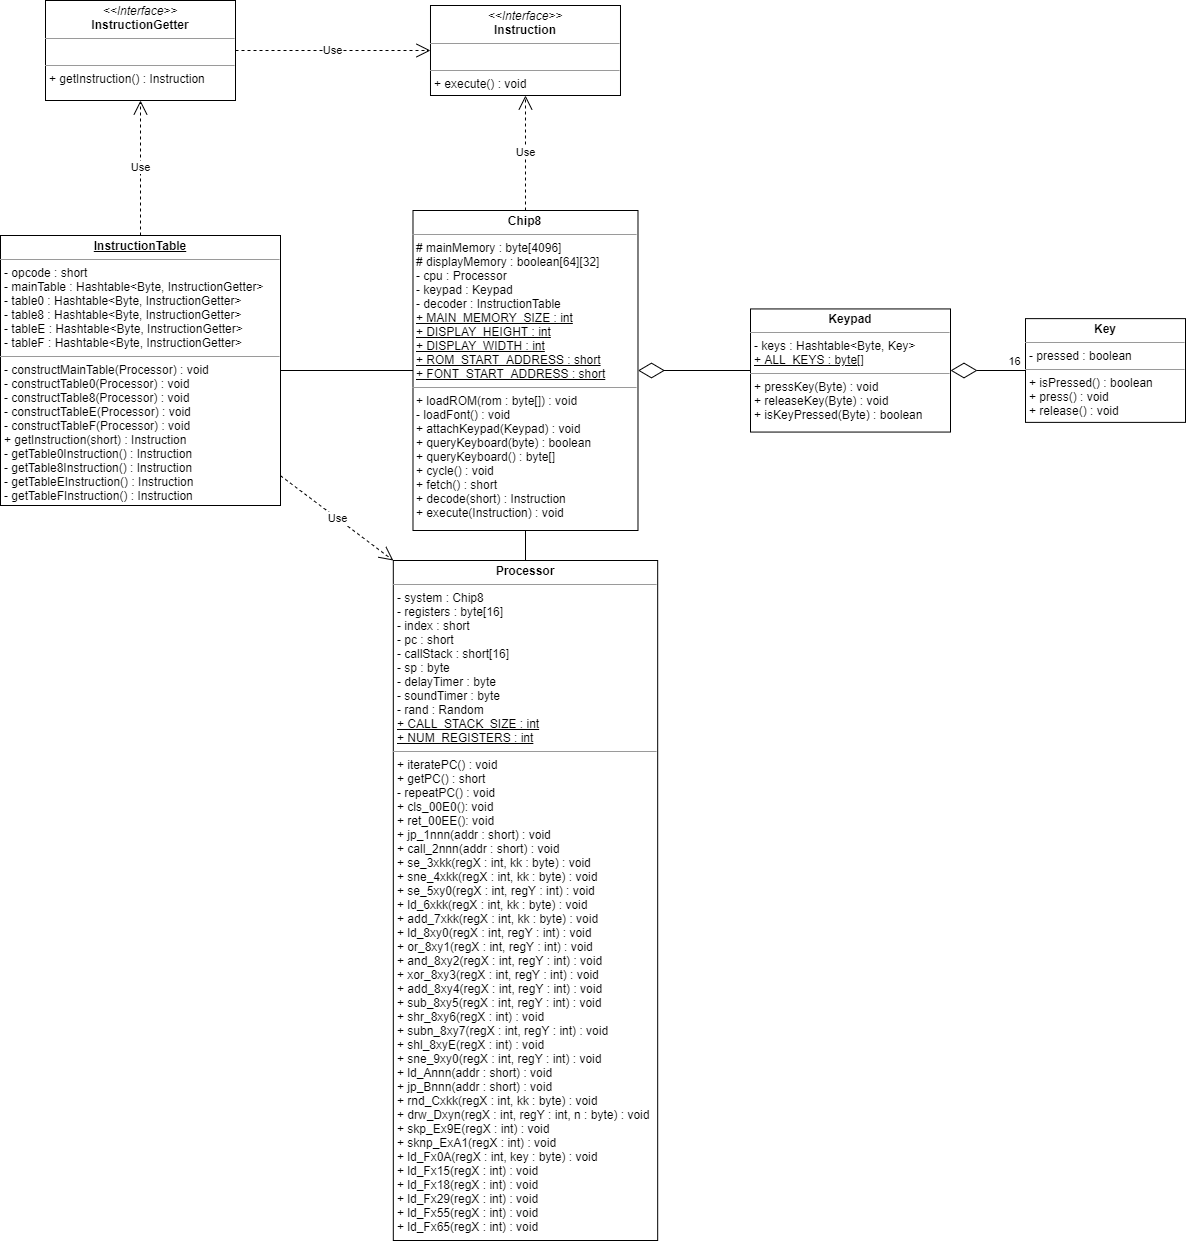
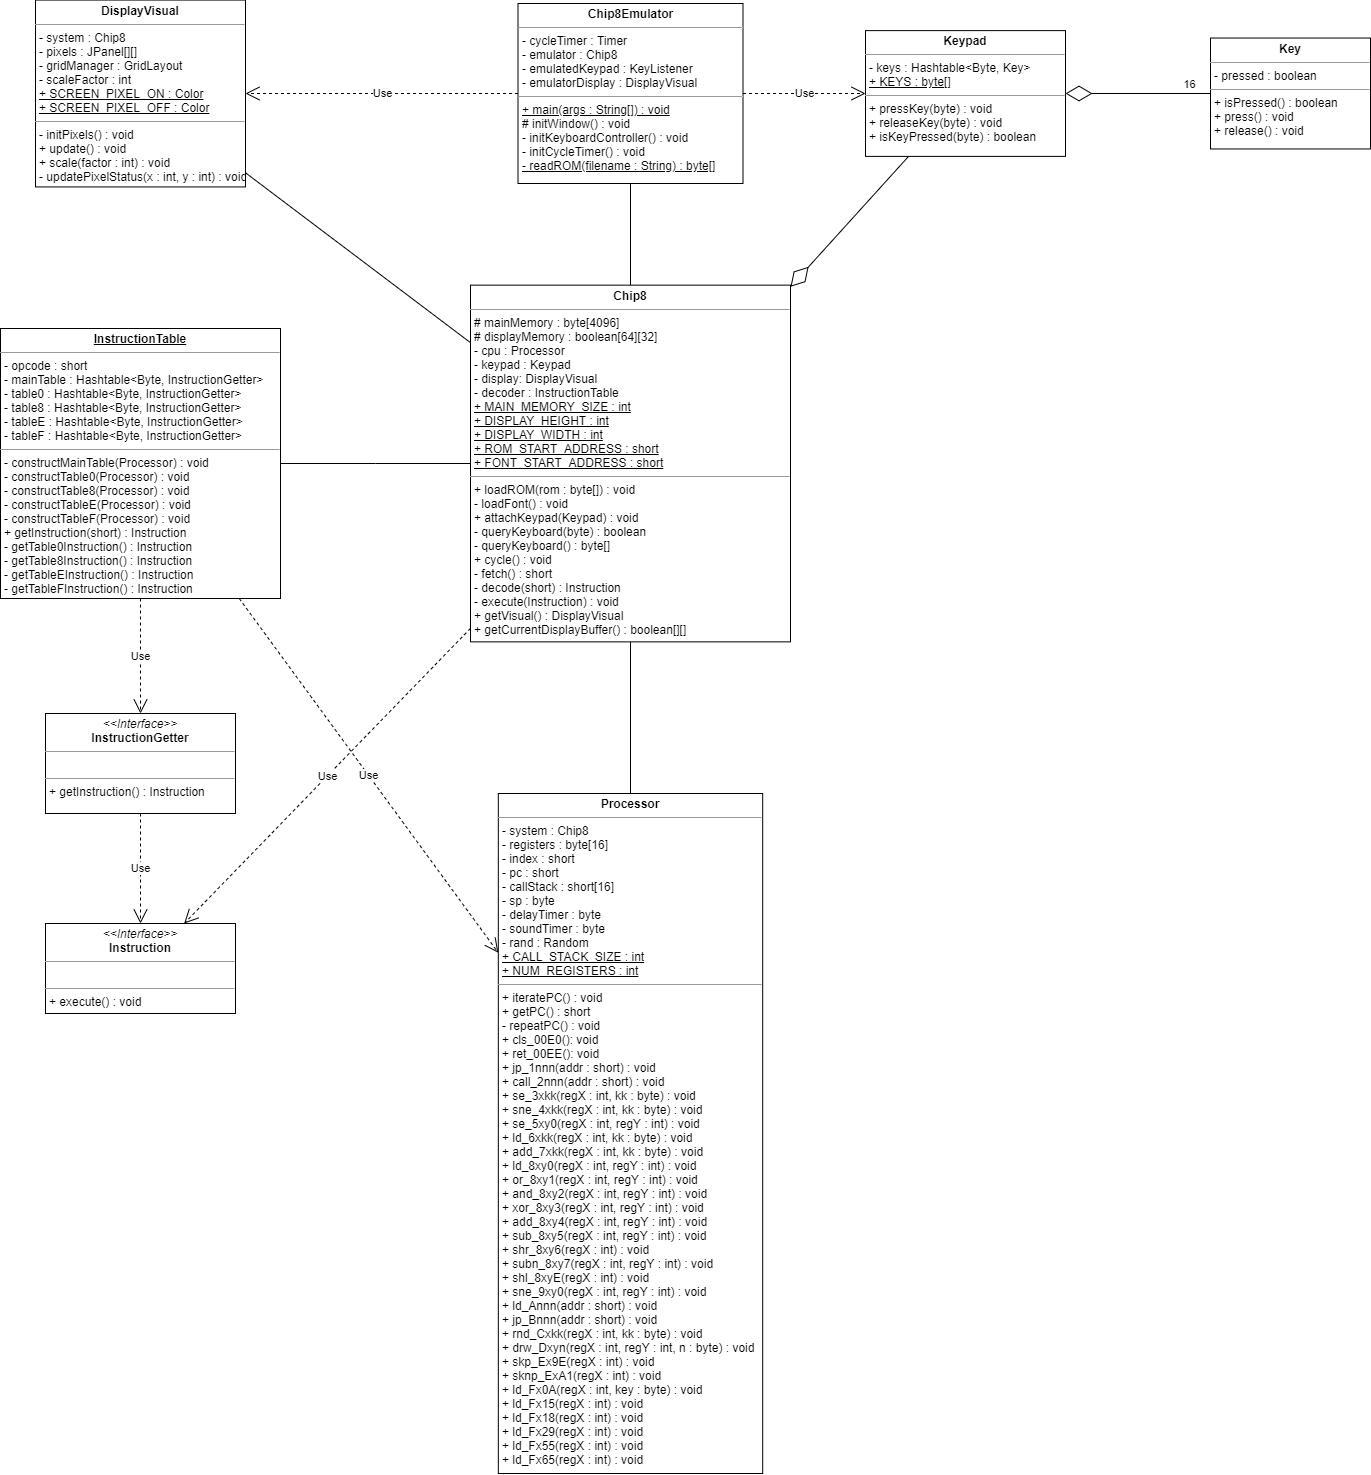
Began work on display, updated class diagram

diff --git a/src/chip8/Chip8Emulator.java b/src/chip8/Chip8Emulator.java
@@ -1,0 +1,119 @@
+package chip8;
+
+import java.awt.event.KeyListener;
+import java.io.File;
+import java.io.FileInputStream;
+import java.io.FileNotFoundException;
+import java.io.IOException;
+import java.util.Timer;
+import java.util.TimerTask;
+
+import javax.swing.JFrame;
+
+import chip8.emulator.Chip8;
+import chip8.emulator.Keypad;
+import chip8.gui.DisplayVisual;
+
+@SuppressWarnings("serial")
+public class Chip8Emulator extends JFrame {
+	
+	private Timer cycleTimer;
+	private Chip8 emulator;
+	private KeyListener emulatedKeypad;
+	private DisplayVisual emulatorDisplay;
+
+	/**Creates a new CHIP-8 emulator running the ROM located at the supplied filename, with a visual scaled to the requested factor.
+	 * @param args Command line arguments, ideally of the format "Chip8Emulator &lt;ROM filename&gt; &lt;Scale factor&gt;"
+	 */
+	public static void main(String[] args) {
+		if(args.length != 2) {
+			System.out.println("Usage: java " + Chip8Emulator.class.getSimpleName() + " <ROM filename> <Scale factor>");
+			System.exit(0);
+		}//end if
+		
+		//Try parsing emulator parameters
+		try {
+			int scaleFactor = Integer.parseInt(args[1]);
+			byte[] rom = readROM(args[0]);
+			new Chip8Emulator(rom, scaleFactor);
+		} catch(NumberFormatException nfe) {
+			System.out.println("Could not start emulator: Invalid scale factor " + nfe);
+			System.exit(0);
+		} catch (FileNotFoundException fnfe) {
+			System.out.println("Could not start emulator: Unable to locate ROM file " + fnfe);
+			System.exit(0);
+		} catch (OutOfMemoryError oom) {
+			System.out.println("Could not start emulator: Invalid size of ROM file " + oom);
+			System.exit(0);
+		} catch (IOException io) {
+			System.out.println("Could not start emulator: Unknown IO exception occurred during reading " + io);
+			System.exit(0);
+		}//end try-catch
+		
+	}//end method main
+	
+	/**Creates new Chip8 emulator.
+	 * @param rom The contents of the ROM to be run by the emulator
+	 * @param scaleFactor The factor by which to scale the emulated display
+	 */
+	public Chip8Emulator(byte[] rom, int scaleFactor) {
+		this.emulator = new Chip8();
+		this.emulator.loadROM(rom);
+		this.emulatorDisplay = emulator.getVisual();
+		this.emulatorDisplay.scale(scaleFactor);
+		
+		initKeyboardController();
+		initWindow();
+		initCycleTimer();
+	}//end constructor method
+
+	private void initCycleTimer() {
+		this.cycleTimer = new Timer("CycleTimer", true);
+		TimerTask mainCycle = new TimerTask() {
+			@Override
+			public void run() {
+				System.out.println("Running main cycle");
+				emulator.cycle();
+				emulatorDisplay.update();
+			}//end method run
+		};
+		
+		this.cycleTimer.scheduleAtFixedRate(mainCycle, 0, 17);
+	}//end initCycleTimer
+
+	private void initKeyboardController() {
+		Keypad keypad = new Keypad();
+		emulator.attachKeypad(keypad);
+		
+	}
+
+	private void initWindow() {
+		this.setTitle("CHIP-8 Emulator");
+		this.setDefaultCloseOperation(JFrame.EXIT_ON_CLOSE);
+		this.setContentPane(emulatorDisplay);
+		
+		this.pack();
+		this.setVisible(true);
+	}//end method initWindow
+
+	/**Reads the CHIP-8 ROM file at the given file location.
+	 * @param filename The file location of the requested ROM file.
+	 * @return a byte array containing the contents of the requested file.
+	 * @throws FileNotFoundException If the requested file does not exist.
+	 * @throws IOException If an IO exception occurs during ROM reading.
+	 * @throws OutOfMemoryError If the size of the ROM file read exceeds the available memory of the CHIP-8 system.
+	 */
+	private static byte[] readROM(String filename) throws FileNotFoundException, IOException, OutOfMemoryError {
+		File romFile = new File(filename);
+		FileInputStream romReader = new FileInputStream(romFile);
+		
+		byte[] romContents = romReader.readAllBytes();
+		romReader.close();
+		
+		if(romContents.length > (Chip8.MAIN_MEMORY_SIZE - Chip8.ROM_START_ADDRESS))
+			throw new OutOfMemoryError("ROM file size exceeds maximum allocatable CHIP-8 system memory");
+		
+		return romContents;
+	}//end method readROM
+
+}//end class Driver

diff --git a/src/chip8/emulator/Chip8.java b/src/chip8/emulator/Chip8.java
@@ -1,5 +1,7 @@
 package chip8.emulator;
 
+import chip8.gui.DisplayVisual;
+
 /**Emulator for the CHIP-8 system.
  * @author Douglas T.
  * Last modified: 4/30/2021
@@ -9,6 +11,8 @@ public class Chip8 {
 	protected boolean[][] displayMemory;
 	private Processor cpu;
 	private Keypad keypad;
+	
+	private DisplayVisual display;
 	
 	private InstructionTable decoder;
 	
@@ -27,6 +31,7 @@ public class Chip8 {
 		
 		this.cpu = new Processor(this);
 		this.decoder = new InstructionTable(cpu);
+		this.display = new DisplayVisual(this);
 		
 		loadFont();
 	}//end constructor method
@@ -77,20 +82,38 @@ public class Chip8 {
 	 * @param requestedKey The byte value of the key to be queried.
 	 * @return True, if the requested key is being pressed. If not, or if no keypad is currently attached, false.
 	 */
-	public boolean queryKeyboard(byte requestedKey) {
+	public boolean queryKeypad(byte requestedKey) {
 		return (this.keypad != null && this.keypad.isKeyPressed(requestedKey));
 	}//end method queryKeyboard
 	
-	public byte[] queryKeyboard() {
-		// TODO Auto-generated method stub
-		return null;
-	}
+	/**Queries the attached keypad, if one exists, about what keys are currently being pressed.
+	 * @return A byte array containing all of the byte values for all currently pressed keys. If no keypad is currently attached, returns an empty array.
+	 */
+	public byte[] queryKeypad() {
+		if(this.keypad == null)
+			return new byte[0];
+		
+		byte[] pressedKeysBuffer = new byte[Keypad.KEYS.length];
+		int numKeysPressed = 0;
+		
+		for(byte keyByte : Keypad.KEYS) {
+			if(queryKeypad(keyByte))
+				pressedKeysBuffer[numKeysPressed++] = keyByte;
+		}//end for
+		
+		byte[] pressedKeys = new byte[numKeysPressed];
+		System.arraycopy(pressedKeysBuffer, 0, pressedKeys, 0, numKeysPressed);
+		
+		return pressedKeys;
+	}//end method queryKeyboard
 	
 	/** Completes one cycle of the emulator. Loads the next instruction from memory, decodes it, and executes it. */
 	public void cycle() {
 		short opcode = fetch();
 		cpu.iteratePC();
 		execute(decode(opcode));
+		
+		display.update();
 	}//end method cycle
 	
 	/**Fetches the next instruction from memory
@@ -114,5 +137,16 @@ public class Chip8 {
 	public void execute(Instruction instruction) {
 		instruction.execute();
 	}//end method execute
+	
+	public DisplayVisual getVisual() {
+		return this.display;
+	}//end method getVisual
+	
+	/**Grabs the current display memory buffer of the emulated CHIP-8 system.
+	 * @return A 2D array containing boolean representations of each pixel, where true indicates the given screen pixel is on and false indicates it is off.
+	 */
+	public boolean[][] getCurrentDisplayBuffer() {
+		return this.displayMemory;
+	}//end method getCurrentDisplayBuffer
 	
 }//end class Chip8

diff --git a/src/chip8/gui/DisplayVisual.java b/src/chip8/gui/DisplayVisual.java
@@ -1,0 +1,76 @@
+package chip8.gui;
+
+
+import java.awt.Color;
+import java.awt.Container;
+import java.awt.Dimension;
+import java.awt.GridLayout;
+
+import javax.swing.JPanel;
+
+import chip8.emulator.Chip8;
+
+@SuppressWarnings("serial")
+public class DisplayVisual extends Container {
+	
+	private Chip8 system;
+	private JPanel[][] pixels;
+	private GridLayout gridManager;
+	private int scaleFactor;
+	
+	public static final Color SCREEN_PIXEL_ON = Color.WHITE;
+	public static final Color SCREEN_PIXEL_OFF = Color.BLACK;
+
+	/**Creates a new 32 * 64 pixel visualization for the supplied Chip8 system.
+	 * @param chip8 The emulated Chip8 system that this display visualizes.
+	 */
+	public DisplayVisual(Chip8 chip8) {
+		this.scaleFactor = 1;
+		this.system = chip8;
+		this.gridManager = new GridLayout(Chip8.DISPLAY_HEIGHT, Chip8.DISPLAY_WIDTH);
+		this.pixels = new JPanel[Chip8.DISPLAY_WIDTH][Chip8.DISPLAY_HEIGHT];
+		this.setLayout(gridManager);
+		
+		initPixels();
+		
+		this.setPreferredSize(new Dimension(Chip8.DISPLAY_WIDTH * scaleFactor, Chip8.DISPLAY_HEIGHT * scaleFactor));
+		this.update();
+	}//end constructor method
+
+	/** Initializes the contained pixels of the display with an initial scale factor of 1*/
+	private void initPixels() {
+		for(int x = 0; x < Chip8.DISPLAY_WIDTH; ++x) {
+			for(int y = 0; y < Chip8.DISPLAY_HEIGHT; ++y) {
+				pixels[x][y] = new JPanel();
+				pixels[x][y].setOpaque(true);
+				pixels[x][y].setPreferredSize(new Dimension(scaleFactor, scaleFactor));
+				this.add(pixels[x][y]);
+			}//end for
+			
+		}//end for
+		
+	}//end method initPixels
+
+	/**Updates the status of each pixel in the display and repaints them*/
+	public void update() {
+		boolean[][] currBuffer = this.system.getCurrentDisplayBuffer();
+		
+		for(int x = 0; x < Chip8.DISPLAY_WIDTH; ++x)
+			for(int y = 0; y < Chip8.DISPLAY_HEIGHT; ++y) {
+				//Update pixel status based on status of 
+				this.pixels[x][y].setBackground(currBuffer[x][y] ? DisplayVisual.SCREEN_PIXEL_ON : DisplayVisual.SCREEN_PIXEL_OFF);
+				this.pixels[x][y].repaint();
+			}//end for
+			
+	}//end method update
+	
+	/**Scales the display by the provided factor.
+	 * @param factor The factor to scale the display pixels.
+	 */
+	public void scale(int factor) {
+		this.scaleFactor = factor;
+		initPixels();
+		update();
+	}//end method scale
+
+}//end class DisplayVisual

diff --git a/src/chip8/emulator/Processor.java b/src/chip8/emulator/Processor.java
@@ -354,7 +354,7 @@ public class Processor {
 	 * @param regX The index of register Vx
 	 */
 	public void skp_Ex9E(int regX) {
-		if(system.queryKeyboard(this.registers[regX]))
+		if(system.queryKeypad(this.registers[regX]))
 			iteratePC();
 	}//end method skp_Ex9E
 	
@@ -363,7 +363,7 @@ public class Processor {
 	 * @param regX The index of register Vx
 	 */
 	public void sknp_ExA1(int regX) {
-		if(!system.queryKeyboard(this.registers[regX]))
+		if(!system.queryKeypad(this.registers[regX]))
 			iteratePC();
 	}//end method sknp_ExA1
 	
@@ -380,7 +380,7 @@ public class Processor {
 	 * @param regX The index of register Vx
 	 */
 	public void ld_Fx0A(int regX) {
-		byte[] keysPressed = system.queryKeyboard();
+		byte[] keysPressed = system.queryKeypad();
 		
 		if(keysPressed.length == 0)
 			repeatPC();
